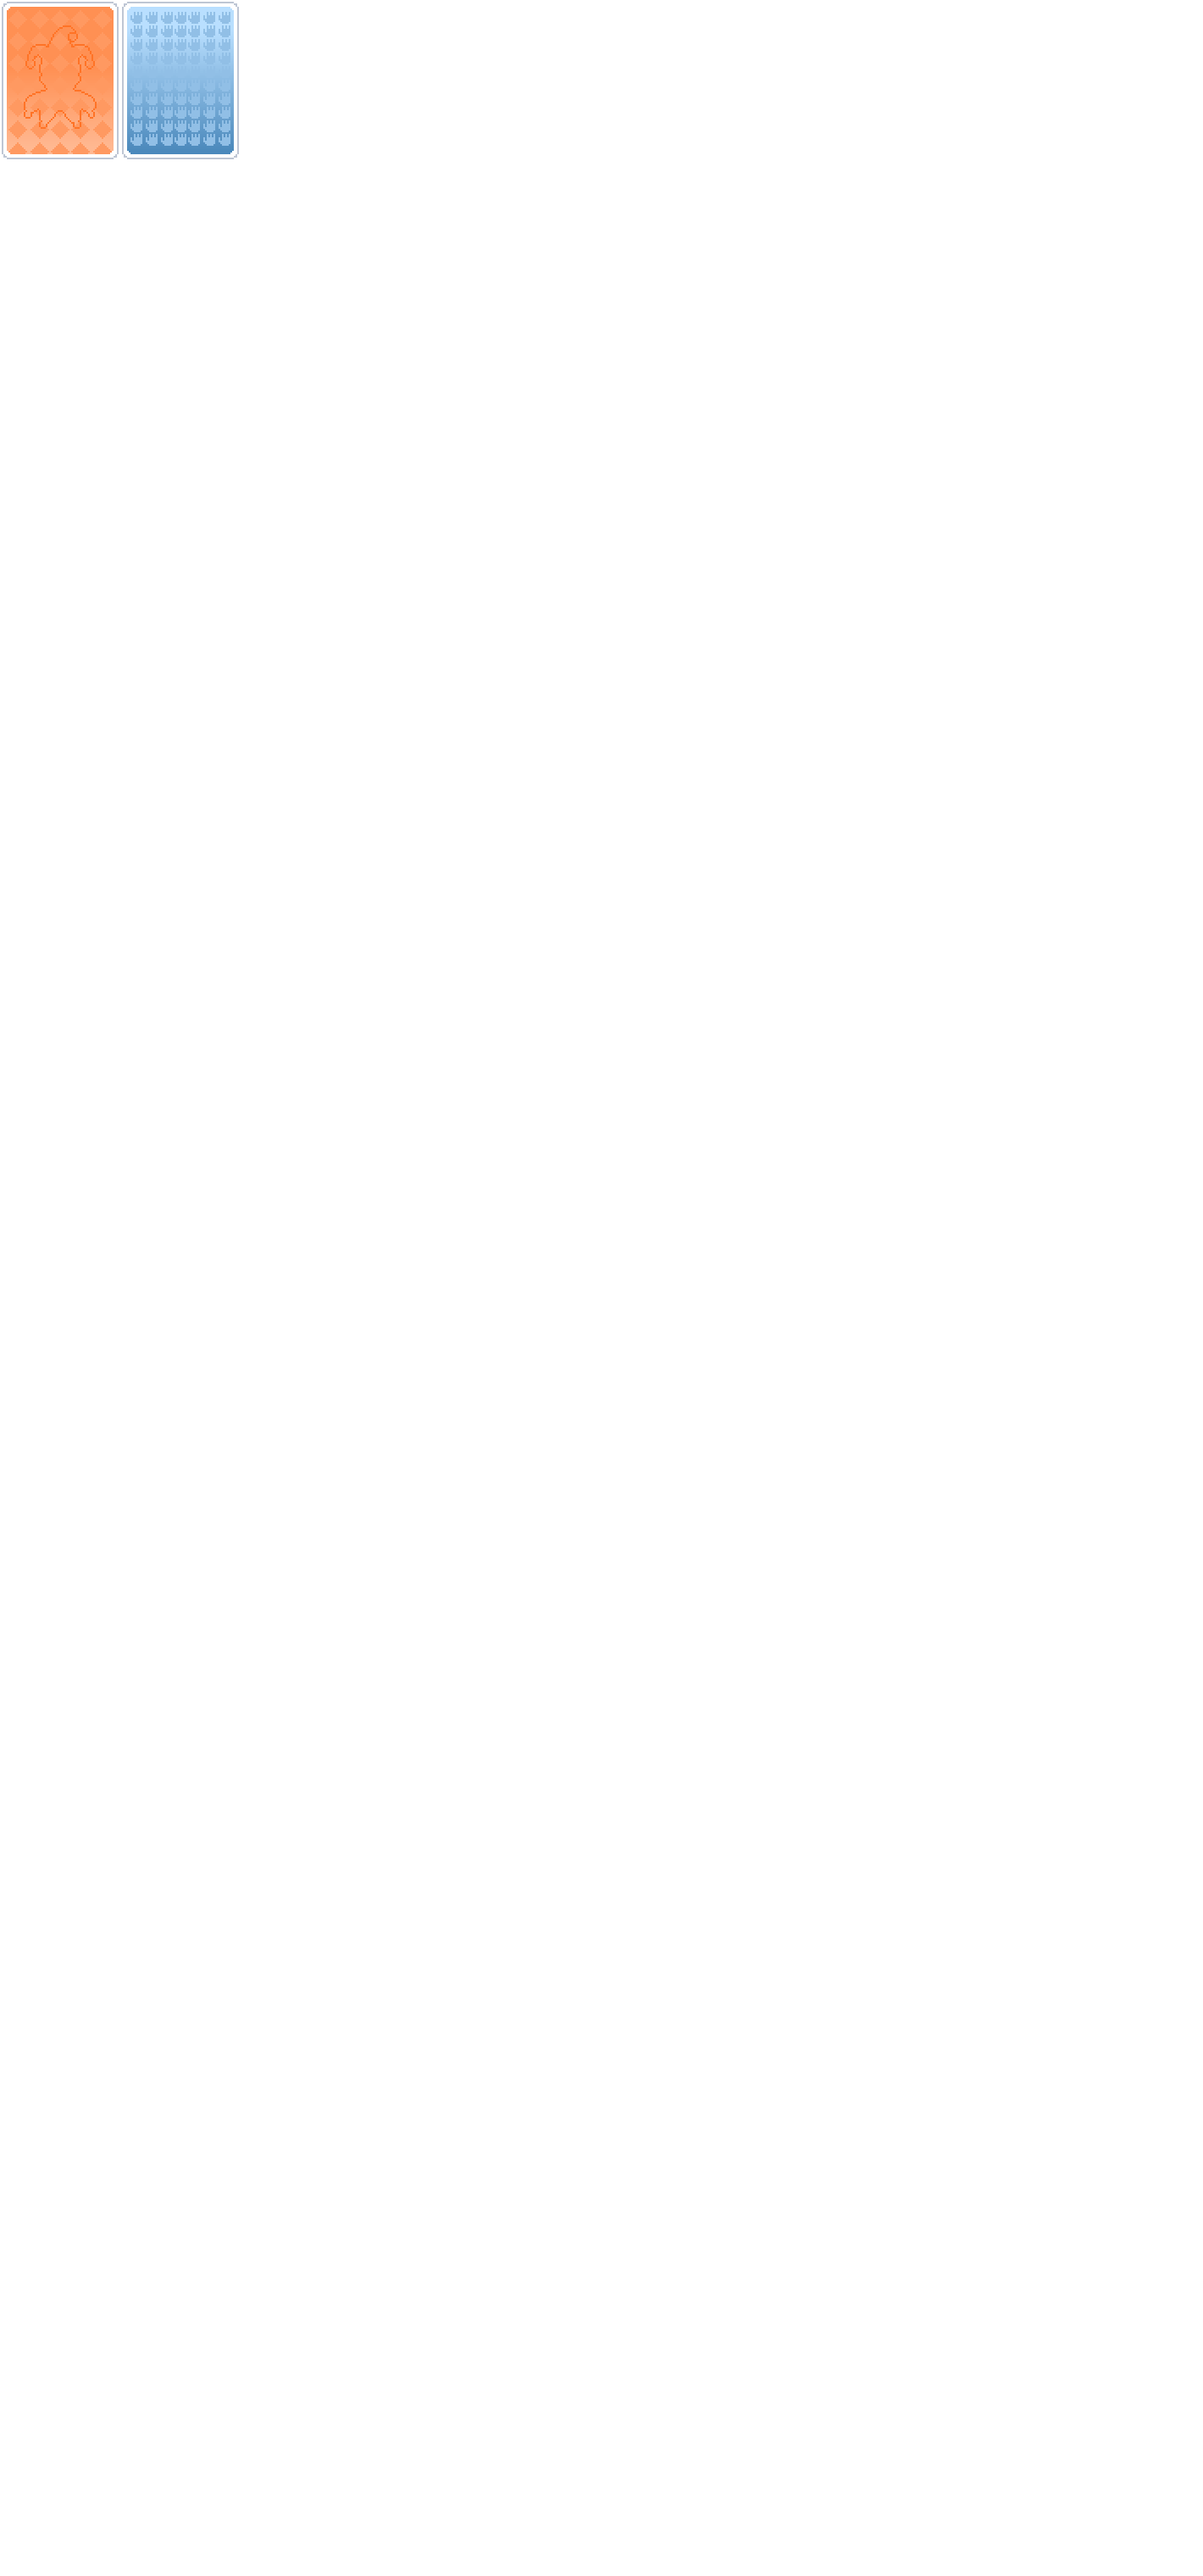
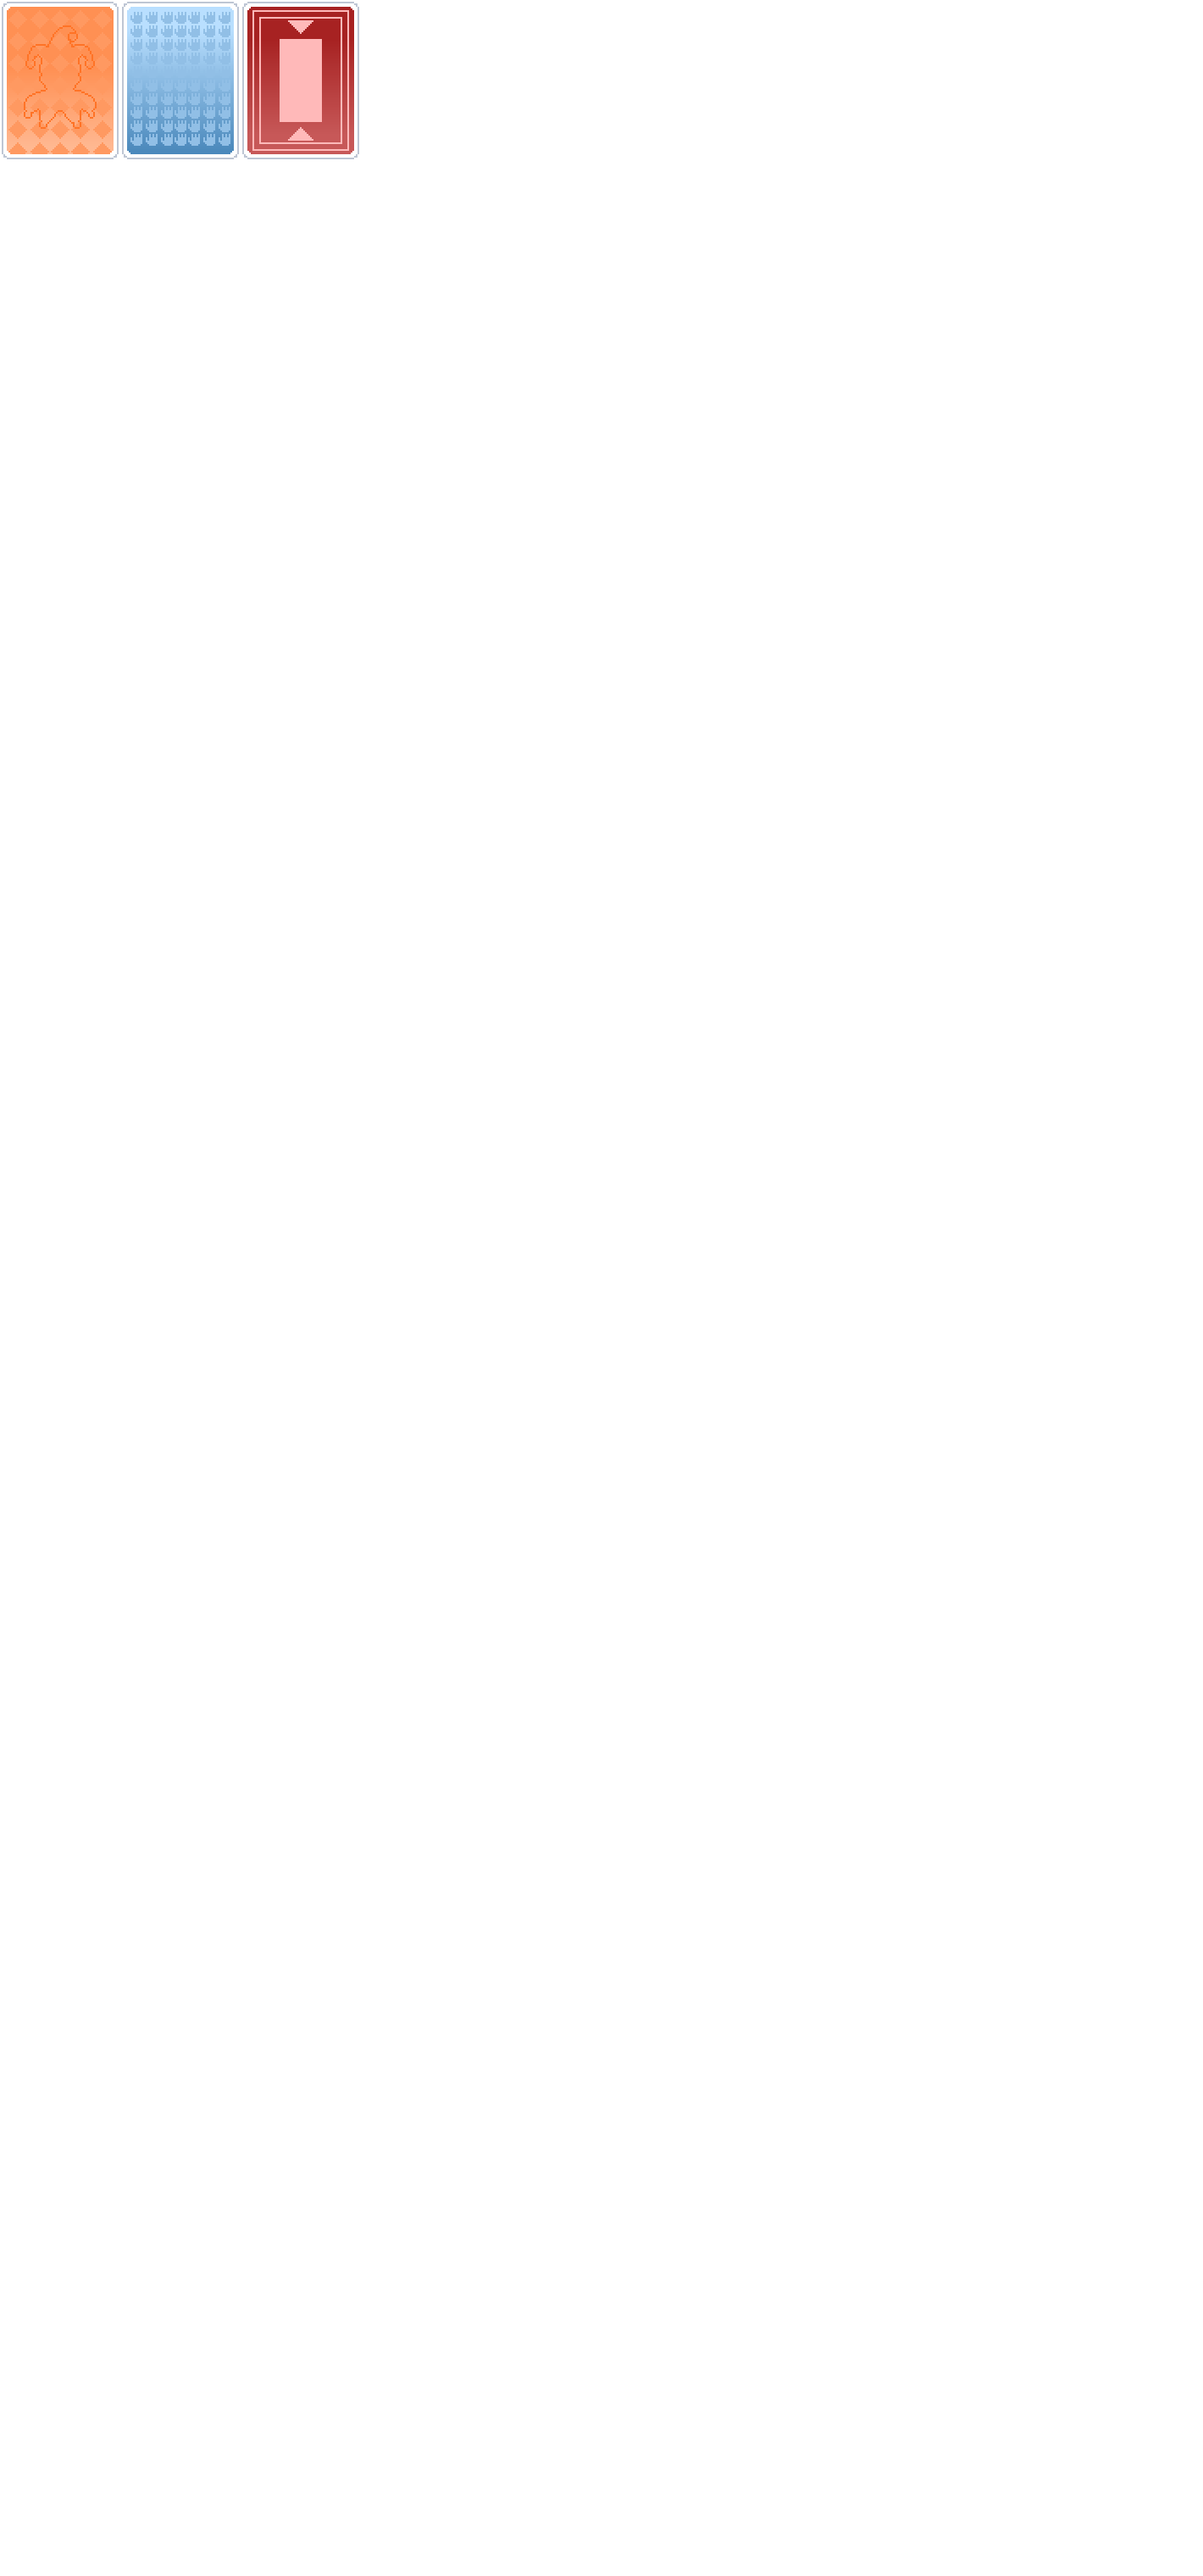
add: lonely deck

Changed region(s): [[0.1859, 0.0, 0.3099, 0.0625]]

diff --git a/README.md b/README.md
@@ -7,7 +7,7 @@ Currently adds (not counting crossmod content):
 - 17 Jokers
 - 2 Tarot Cards
 - 3 Enhancements
-- 2 Decks
+- 3 Decks
 
 Crossmod content:
 [Entropy](https://github.com/lord-ruby/Entropy) (Recommended to play with!):
